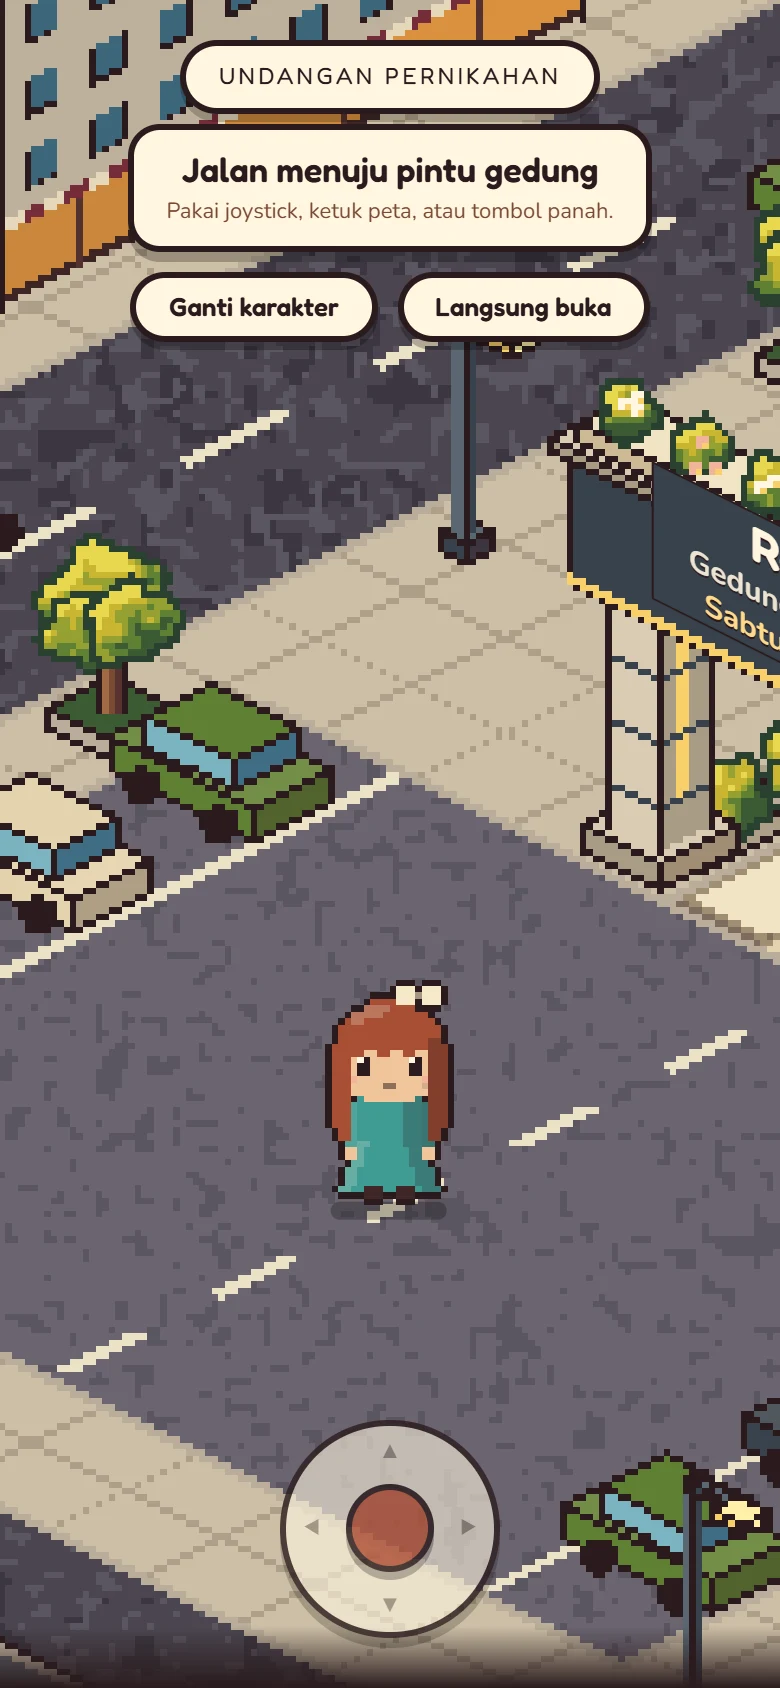
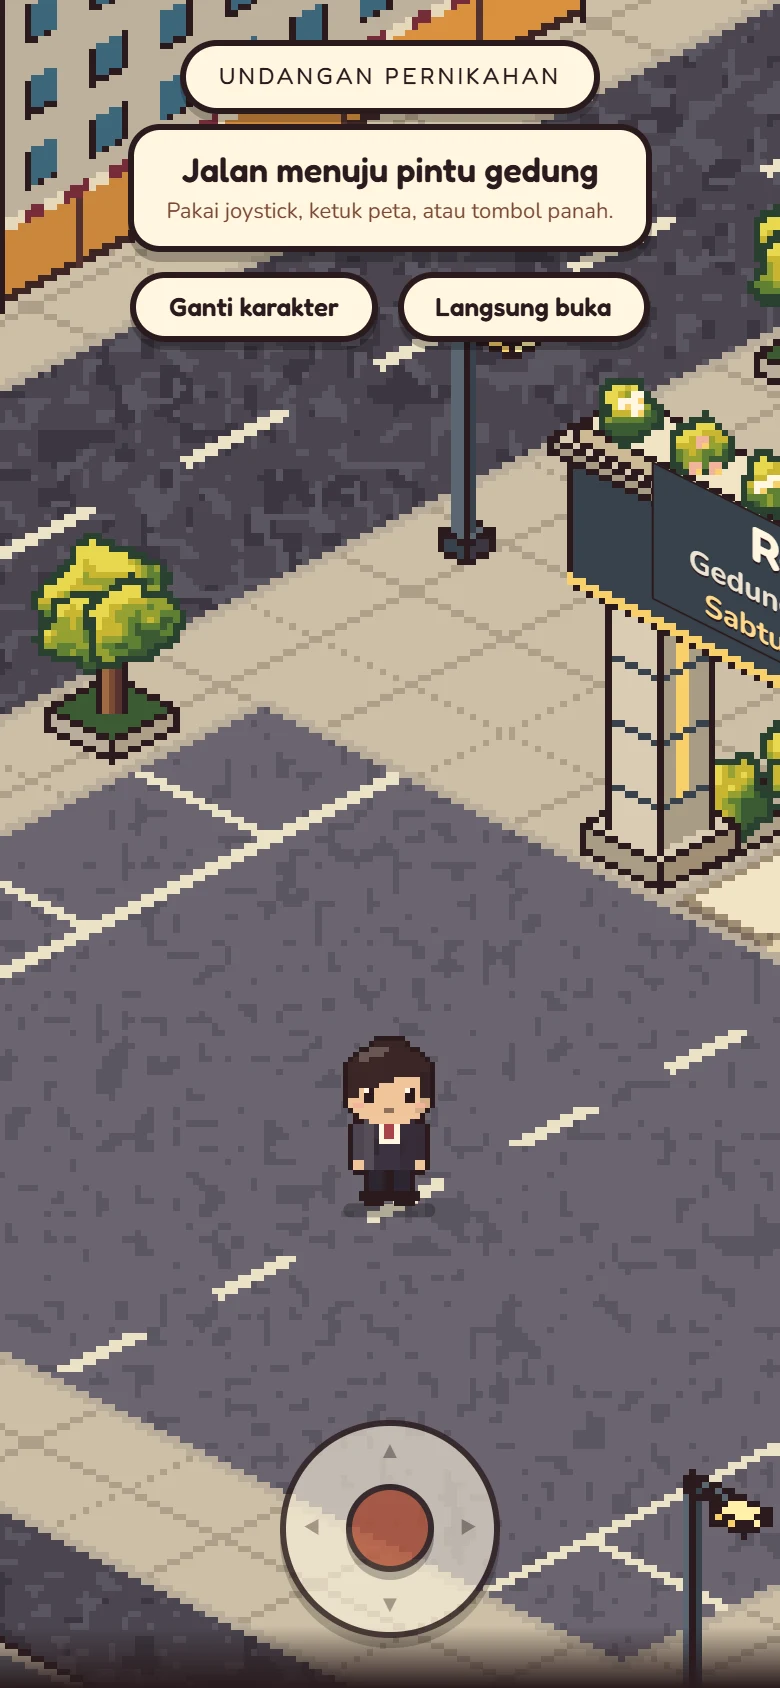
feat: add Isometrik theme demo photos and update asset references for improved visual consistency

diff --git a/scripts/isometrik-assets.ts b/scripts/isometrik-assets.ts
@@ -302,22 +302,6 @@ function streetLamp(iso: Iso, l: number, s: number, h = 112) {
   iso.box(l - 6, l + 6, s + 14, s + 28, h - 5, h, C.glowLight, C.glow, C.glowLight, C.line);
 }
 
-// Mobil parkir: badan rendah dan kabin kaca, memanjang sepanjang arah l atau s.
-function car(iso: Iso, l: number, s: number, tone: Rgb, alongS = false) {
-  const hl = alongS ? 18 : 34;
-  const hs = alongS ? 34 : 18;
-  const dark = shade(tone, -0.28);
-  iso.box(l - hl, l + hl, s - hs, s + hs, 5, 20, shade(tone, 0.12), tone, dark);
-  const cl = alongS ? 15 : 20;
-  const cs = alongS ? 20 : 15;
-  iso.box(l - cl, l + cl, s - cs, s + cs, 20, 34, tone, C.glassLight, C.glass);
-  // Roda.
-  for (const [a, b] of alongS ? [[-hl, -18], [-hl, 18]] : [[-22, hl], [22, hl]]) {
-    const [x, y] = iso.xy(l + a, s + b, 4);
-    iso.c.disc(x, y, 3, () => C.line);
-  }
-}
-
 const shade = (c: Rgb, t: number): Rgb => (t < 0 ? mix(c, C.line, -t) : mix(c, C.white, t));
 
 type Block = "kantor" | "apartemen" | "ruko";
@@ -429,7 +413,7 @@ function archWindow(u: number, v: number, w: number, h: number, frame: Rgb = C.t
 // Atap pelana terakota dengan bubungan sepanjang l. Genteng besar berbaris, ada lumut dan tepi bayangan.
 // ---------------------------------------------------------------------------------------------------------------
 // Halaman gedung di tengah kota. Sama dengan world.ts.
-const TOWN = { x0: 480, y0: 740, art: 3, plazaL0: -120, plazaL1: 250, plazaS: 268, pathS: 70, doorL: 520, gateL: 270, gateS: 104, gateZ: 118, bl1: 770, bs: 190, wall: 250, lobby: 92 };
+const TOWN = { x0: 480, y0: 740, art: 3, plazaL0: -120, plazaL1: 250, plazaS: 268, pathS: 70, doorL: 520, gateL: 270, gateS: 104, gateZ: 118, bl1: 770, bs: 190, wall: 280, lobby: 136 };
 
 // Gerbang beton dan balok baja. Papan nama digambar di atas baloknya oleh door.tsx.
 function drawGate(iso: Iso) {
@@ -477,8 +461,8 @@ function mainHall(iso: Iso) {
       if (a < 62) {
         if (a < 2 || z > B - 20) return C.steel;
         if (a > 58) return C.steel;
-        if (a > 6 && a < 10 && z > 32 && z < 54) return C.goldBar;
-        return z > 60 ? C.glowLight : C.glow;
+        if (a > 6 && a < 10 && z > 44 && z < 74) return C.goldBar;
+        return z > 84 ? C.glowLight : C.glow;
       }
       return (a + 800) % 58 < 5 ? C.concrete : z > B - 30 ? C.glowLight : C.glow;
     }
@@ -594,17 +578,6 @@ async function drawTown() {
     if (i % 2) at(l, 312, () => streetTree(iso, l, 312, 80 + i));
     else at(l, 312, () => streetLamp(iso, l, 312));
   }
-  // Mobil parkir di petak kanan kiri halaman dan yang lewat di jalan.
-  const tones = [hex("#b4553b"), hex("#3e6d84"), hex("#e4d3ad"), hex("#5f8034"), hex("#39424d"), hex("#7c2f3c")];
-  [-78, 6, 90, 174].forEach((l, i) => {
-    if (i !== 1) at(l + 20, -232, () => car(iso, l + 20, -232, tones[i], true));
-    if (i !== 2) at(l + 20, 232, () => car(iso, l + 20, 232, tones[(i + 3) % tones.length], true));
-  });
-  at(620, -360, () => car(iso, 620, -360, tones[3]));
-  at(240, -435, () => car(iso, 240, -435, tones[1]));
-  at(620, 385, () => car(iso, 620, 385, tones[5]));
-  at(-300, 80, () => car(iso, -300, 80, tones[2], true));
-
   // Air mancur kecil di taman samping jalan masuk.
   at(385, 245, () => {
     const [x, y] = iso.xy(385, 245, 0);

diff --git a/src/components/invitation/gedung/interior.tsx b/src/components/invitation/gedung/interior.tsx
@@ -23,8 +23,7 @@ export type Panel = { id: PoiId; title: string; body: ReactNode; label?: string;
 
 // Skala layar sama dengan halaman depan, jadi karakter tidak mengecil walau peta aula lebih luas.
 const BASE = { w: 1672, h: 941, zoom: 1.2 };
-// Di dalam aula karakter digambar lebih kecil dari di halaman depan supaya sebanding dengan kios dan perabot.
-const HERO = HERO_H * 0.8;
+const HERO = HERO_H;
 
 // Siapa yang sedang bicara pada giliran ke-tick: tiap kelompok obrolan bergiliran antaranggota, dan kalimatnya
 // maju setiap putaran. Tamu yang sendirian hanya bergumam sesekali.

diff --git a/src/components/invitation/gedung/door.tsx b/src/components/invitation/gedung/door.tsx
@@ -35,7 +35,8 @@ const PLACE_FIT = 24;
 // dua kolom lain langkah kaki.
 const SPRITES: Record<Pick, string> = { groom: "/img/rafi-kayla/guest-male.png", bride: "/img/rafi-kayla/guest-female.png" };
 export const CELL = { w: 32, h: 40 };
-export const HERO_H = 120;
+// Tinggi tampil karakter dalam piksel peta, sama di halaman depan dan di dalam aula.
+export const HERO_H = 96;
 export const STEPS = [1, 0, 2, 0];
 export const STEP_FPS = 8;
 // Sebentar berhenti (terhalang satu frame saat meluncur di dinding) tidak mengulang langkah dari awal.

diff --git a/src/components/invitation/gedung/world.ts b/src/components/invitation/gedung/world.ts
@@ -16,7 +16,7 @@ export const SPAWN: Point = townAt(40, 0);
 export const DOOR_TARGET: Point = townAt(474, 0);
 export const NEAR_RADIUS = 80;
 // Titik tengah daun pintu dan papan nama di balok gapura, dalam piksel peta.
-export const DOOR_AT: Point = townAt(TOWN.doorL, 0, 45);
+export const DOOR_AT: Point = townAt(TOWN.doorL, 0, 66);
 export const SIGN_AT: Point = townAt(TOWN.gateL, 0, 148);
 
 // Area yang boleh dilalui: halaman paving, jalan di antara dua tiang gapura sampai depan pintu, dan pelataran tangga.

diff --git a/docs/isometrik-photos.md b/docs/isometrik-photos.md
@@ -1,0 +1,13 @@
+# Foto demo tema Isometrik
+
+Foto contoh di `public/img/rafi-kayla/` berasal dari Unsplash, memakai [Unsplash License](https://unsplash.com/license): gratis untuk keperluan bisnis, tanpa wajib kredit, dan tidak boleh dijual tanpa perubahan berarti.
+
+| Foto | Fotografer | File yang memakainya |
+| --- | --- | --- |
+| [Pasangan di depan gedung bersejarah](https://unsplash.com/photos/BxEbEUyh5Yc) | Marius Muresan | `hero-photo`, `gallery-1`, `gallery-6`, `story-2` |
+| [Pasangan berdansa di alun-alun kota](https://unsplash.com/photos/DOyBAKWmOa0) | Marius Muresan | `hero-wide`, `gallery-3`, `gallery-5`, `story-3`, `og` |
+| [Pasangan berpegangan tangan](https://unsplash.com/photos/35O43i38FnU) | Marius Muresan | `couple`, `gallery-2`, `story-1` |
+| [Pasangan berpelukan](https://unsplash.com/photos/-HwuidgQ9qE) | Marius Muresan | `closing`, `gallery-4`, `story-4` |
+| [Ruangan dengan pemandangan kota](https://unsplash.com/photos/eN1lACiHPfU) | Lucas T Photography | `venue` |
+
+Lisensi ini tidak menyebut izin dari orang yang ada di foto, jadi foto-foto ini hanya untuk undangan contoh, bukan untuk iklan.
